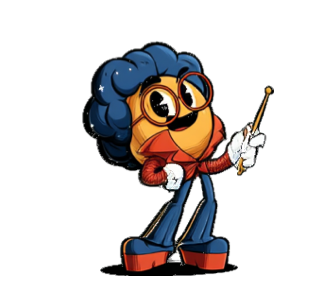
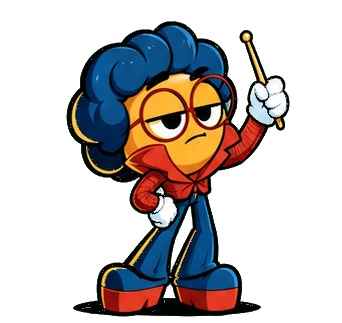
Tomi: hit animations by energy from Alan's new sheets; drum where the sticks land
- 32 hit frames (one / two hands, 4 styles each, 4 phases), energy = knob x
  velocity picks the style; impact on the note, follow-through, ready.
- Sleep poses kept; the floor tom moved to the measured stick impact point.

diff --git a/plugins/pew_pew/Source/TomiMascot.cpp b/plugins/pew_pew/Source/TomiMascot.cpp
@@ -41,20 +41,6 @@ double TomiMascot::echoSeconds() noexcept
     return PewPewDsp::divisionBeats (proc.getDivisionParameter().getIndex()) * 60.0 / bpm;
 }
 
-int TomiMascot::hitPose (float amount) const noexcept
-{
-    // The knob sets how wild the hit is
-    if (amount < 0.12f)
-        return strikeHit;                                 // 0 %: a plain, quiet strike
-    if (amount < 0.37f)
-        return twirl;                                     // 25 %: stick twirl, smile
-    if (amount < 0.62f)
-        return sparkleFirst + (hitIndex & 1);             // 50 %: bigger, head in it
-    if (amount < 0.87f)
-        return sticksUpFirst + (hitIndex & 1);            // 75 %: full swing, stars
-    return jump;                                          // 100 %: euphoric jump
-}
-
 int TomiMascot::chooseFrame (float amount, float bypass, bool musicOn)
 {
     juce::ignoreUnused (musicOn);
@@ -72,6 +58,7 @@ int TomiMascot::chooseFrame (float amount, float bypass, bool musicOn)
             hitTime = s.time - hitOverride;
             hitVelocity = 1.0f;
             hitPitch = 1.0f;
+            hitLevel = levelFor (amount, 1.0f);
             ++hitIndex;
         }
     }
@@ -83,11 +70,12 @@ int TomiMascot::chooseFrame (float amount, float bypass, bool musicOn)
         hitPitch = juce::jmax (tel.pitchPosition.load (std::memory_order_relaxed), amount);
         ++hitIndex;
         recentHits[(size_t) (recentCount % (int) recentHits.size())] = s.time;
-        recentPoses[(size_t) (recentCount % (int) recentPoses.size())] = hitPose (amount);
+        hitLevel = levelFor (amount, hitVelocity);
+        recentPoses[(size_t) (recentCount % (int) recentPoses.size())] = frameOf (hitLevel, impact);
         ++recentCount;
-        mutableState().squash = -0.06f * hitVelocity; // the force of the hit
-        // stars from 75 %, sparkles everywhere at 100 %
-        int burst = amount >= 0.62f ? (int) (4 + 8 * amount * hitVelocity) : 0;
+        mutableState().squash = -0.05f * hitVelocity; // the force of the hit
+        // stars from the skin at high energy, everywhere at the top
+        int burst = hitLevel >= 5 ? 3 + 2 * (hitLevel - 4) : 0;
         const auto fig = getFigureArea();
         const auto drum = drumArea (fig);
         for (auto& st : stars)
@@ -96,7 +84,7 @@ int TomiMascot::chooseFrame (float amount, float bypass, bool musicOn)
                 break;
             if (st.life > 0.0f)
                 continue;
-            const bool everywhere = amount >= 0.87f && random.nextFloat() < 0.5f;
+            const bool everywhere = hitLevel >= 7 && random.nextFloat() < 0.5f;
             st.pos = everywhere ? juce::Point<float> (getWidth() * random.nextFloat(), getHeight() * random.nextFloat() * 0.8f)
                                 : drum.getCentre().translated ((random.nextFloat() - 0.5f) * drum.getWidth(), -drum.getHeight() * 0.3f);
             const float ang = juce::MathConstants<float>::pi * (1.1f + 0.8f * random.nextFloat());
@@ -136,35 +124,32 @@ int TomiMascot::chooseFrame (float amount, float bypass, bool musicOn)
     }
     bypassSince = -1.0;
 
-    // The hit: raised -> strike (knob pose) -> lift, ~170 ms
-    if (since >= 0.0 && since < 0.17)
-        return since < 0.11 ? hitPose (amount) : (amount < 0.12f ? strikeLift : hitPose (amount));
+    // The hit: impact at once (the sound starts with the note), then the
+    // follow-through, then the stick back up, ready
+    if (since >= 0.0 && since < 0.11)
+        return frameOf (hitLevel, impact);
+    if (since >= 0.0 && since < 0.26)
+        return frameOf (hitLevel, follow);
 
-    // Between hits
-    if (s.playing && since > 1.0 && amount < 0.62f)
+    // Between hits: ready, in the style of the knob's energy (velocity of
+    // the last hit kept); tapping the tempo while the host plays without notes
+    const int level = since >= 0.0 && since < 2.0 ? hitLevel : levelFor (amount, 0.8f);
+    if (s.playing && since > 1.0)
     {
-        // tapping along with the tempo
         const int beat = (int) std::floor (s.time * getFeatures().bpm.load() / 60.0);
-        return (beat & 1) ? strikeUp : strikeRaised;
+        return frameOf (level, (beat & 1) ? downswing : raised);
     }
-    if (amount >= 0.62f)
-        return since < 1.2 ? enthusiasm : (amount >= 0.87f ? enthusiasm : smile);
-    if (amount >= 0.12f)
-        return smile;
-    // calm: little glances / blinks every 2 to 6 s
-    if (s.time > idleFlip)
-    {
-        idleFrame = calmFirst + random.nextInt (4);
-        idleFlip = s.time + 2.0 + 4.0 * random.nextDouble();
-    }
-    return idleFrame;
+    return frameOf (level, raised);
 }
 
 juce::Rectangle<float> TomiMascot::drumArea (juce::Rectangle<float> fig) const noexcept
 {
-    // A disco floor tom at Tomi's side (to the right, half behind him)
-    const float w = fig.getHeight() * 0.62f, h = w * 0.62f;
-    return juce::Rectangle<float> (w, h).withCentre ({ fig.getCentreX() + fig.getWidth() * 0.36f, fig.getBottom() - h * 0.62f });
+    // A low floor tom where the sticks land on the impact frames (measured
+    // on the sprites: 65-82 % of the width, 81-90 % of the height, feet at
+    // 97 %): its skin at ankle height, just behind his right foot
+    const float w = fig.getWidth() * 0.58f, h = fig.getHeight() * 0.17f;
+    const float skinY = fig.getY() + fig.getHeight() * 0.86f;
+    return { fig.getX() + fig.getWidth() * 0.78f - w * 0.5f, skinY - h * 0.18f, w, h };
 }
 
 void TomiMascot::paintBehind (juce::Graphics& g, const State& s, juce::Rectangle<float> fig)
@@ -240,7 +225,7 @@ void TomiMascot::paintBehind (juce::Graphics& g, const State& s, juce::Rectangle
 
     // ECHO: ghosts of Tomi replaying the hit at the echo times
     const float echo = proc.getEchoParameter().getValue() * awake;
-    if (echo > 0.02f && numFrames() > jump)
+    if (echo > 0.02f && numFrames() > sleepFirst)
     {
         const int ghosts = juce::jlimit (1, 3, 1 + (int) std::floor (echo * 2.99f));
         const double gap = echoSeconds();
@@ -260,13 +245,7 @@ void TomiMascot::paintBehind (juce::Graphics& g, const State& s, juce::Rectangle
 
 void TomiMascot::paintCharacter (juce::Graphics& g, juce::Rectangle<float> fig, const juce::AffineTransform& animation)
 {
-    const auto& s = getState();
-    // 100 %: he jumps on every hit
-    const double since = s.time - hitTime;
-    float hop = 0.0f;
-    if (s.amount >= 0.87f && since >= 0.0 && since < 0.3 && s.bypass < 0.5f)
-        hop = -fig.getHeight() * 0.09f * (float) std::sin (juce::MathConstants<double>::pi * since / 0.3) * hitVelocity;
-    drawFrame (g, s.frame, fig, animation.followedBy (juce::AffineTransform::translation (0.0f, hop)), 1.0f);
+    drawFrame (g, getState().frame, fig, animation, 1.0f);
 }
 
 void TomiMascot::paintOverlay (juce::Graphics& g, const State& s, juce::Rectangle<float> fig)

diff --git a/plugins/pew_pew/Source/TomiMascot.h b/plugins/pew_pew/Source/TomiMascot.h
@@ -4,12 +4,13 @@
 
 namespace pp
 {
-/** "Tomi", the disco drummer, in front of his drum.
+/** "Tomi", the disco drummer, and his floor tom.
 
     Every MIDI note is a stick hit (from the engine's trigger counter, at the
-    nearest frame), its force follows the velocity. The pose depends on the
-    knob (calm strike at 0 % → twirl → sparkles → sticks up → euphoric jump at
-    100 %) and on the moment of the hit, never on a plain timer. The drum is
+    nearest frame): impact, then follow-through, then the stick back up. The
+    hit style follows the energy, i.e. the knob and the velocity: one hand
+    and cheerful at the bottom, two hands, star eyes, gritted teeth, and
+    dizzy at the very top (8 styles); never a plain timer. The drum is
     drawn by code: its skin swells and lifts with the real pitch. ROOM shows as
     rings on the floor, ECHO as ghost Tomis replaying the hit at the echo
     times. Bypass: he falls asleep sitting by the drum ("Zzz"). */
@@ -20,9 +21,16 @@ public:
 
     static std::vector<juce::Image> loadFrames();
 
-    // Frame roles (scripts/make_tomi_frames.sh)
-    static constexpr int calmFirst = 0, smile = 4, twirl = 5, sparkleFirst = 6, sticksUpFirst = 8, jump = 10;
-    static constexpr int strikeRaised = 11, strikeLift = 12, strikeHit = 13, strikeUp = 14, enthusiasm = 15, sleepFirst = 16;
+    // Frame roles (scripts/make_tomi_frames.sh): 8 hit styles by energy, four
+    // phases each (stick raised, downswing, impact, follow-through), then sleep
+    static constexpr int numLevels = 8, raised = 0, downswing = 1, impact = 2, follow = 3, sleepFirst = 32;
+    static int frameOf (int level, int phase) noexcept { return juce::jlimit (0, numLevels - 1, level) * 4 + phase; }
+    /** Energy 0..1 → hit style: the knob, and how hard the note was played. */
+    static int levelFor (float amount, float velocity) noexcept
+    {
+        const float energy = amount * (0.55f + 0.45f * velocity);
+        return juce::jlimit (0, numLevels - 1, (int) std::floor (energy * numLevels));
+    }
 
     /** 1 on a hit, decaying (~120 ms): the knob's halo and skin lift. */
     float hitEnvelope() const noexcept { return hitEnv; }
@@ -39,13 +47,12 @@ protected:
     void paintOverlay (juce::Graphics&, const State&, juce::Rectangle<float> figure) override;
 
 private:
-    int hitPose (float amount) const noexcept;
     juce::Rectangle<float> drumArea (juce::Rectangle<float> figure) const noexcept;
     double echoSeconds() noexcept;
 
     PewPewProcessor& proc;
-    int lastTrigger = 0, hitIndex = 0, idleFrame = calmFirst;
-    double lastTime = 0.0, hitTime = -10.0, idleFlip = 0.0, bypassSince = -1.0;
+    int lastTrigger = 0, hitIndex = 0, hitLevel = 0;
+    double lastTime = 0.0, hitTime = -10.0, bypassSince = -1.0;
     float hitVelocity = 1.0f, hitPitch = 0.0f, hitEnv = 0.0f, lift = 0.0f, hitOverride = -1.0f;
     std::array<double, 8> recentHits {}; // times of the last hits (ghosts, floor rings)
     std::array<int, 8> recentPoses {};

diff --git a/DECISIONS.md b/DECISIONS.md
@@ -291,3 +291,10 @@ Une ligne par décision : **contexte** — choix — raison.
 - **5 presets de plus** : Syndrum 76 (sinus 294 Hz, +2 → −1 oct, τ 28 ms, 140 ms), Bubble Pop (sinus, glissement régulier 0,7 oct en 60 ms, UP par défaut), Arcade Zap (carré 440 Hz filtré à 6 kHz, +2 → −1 oct, drive), Disco Cowbell (deux carrés 540 Hz et +680 cents à parts égales, glissement infime, 90 ms ; `detuneCents` élargi à ±1200), Siren Sweep (triangle 392 Hz, −1 oct en 900 ms, tenue 400 ms, désaccord 25 cents).
 - **Distances** : Syndrum 76 était à 0,200 de Disco Tom et 0,202 de Deep Drop → plus aigu, plus court, chute plus vive ; plus petite distance des 10 : 0,205 (Disco Tom ↔ Space Toms, inchangée).
 - **Niveaux** : les 10 presets entre −21,6 et −19,6 dB RMS sur le pattern à 50 %, crêtes ≤ −1,5 dBFS (les sons courts — Bubble Pop, Disco Cowbell, Syndrum 76 — limités par leur crête).
+
+## Pew Pew — nouvelles frappes de Tomi selon l'énergie (2026-10-19)
+- **Planches d'Alan** : deux planches 4 × 4 de frappes (une main, deux mains) ; chaque ligne = une frappe en 4 temps (baguette levée, descente, impact avec étincelles, accompagnement). Remplacent toutes les poses éveillées ; on garde les 3 poses de sommeil.
+- **Énergie** = knob × (0,55 + 0,45 × vélocité) → 8 styles, du plus calme au plus fou : une main (joyeux, malin, yeux étoiles, crispé → étourdi), puis deux mains dans le même ordre (lignes 1, 3, 2, 4 de chaque planche).
+- **Déroulé** : l'impact s'affiche dès la note (le son commence avec elle) pendant 110 ms, puis l'accompagnement jusqu'à 260 ms, puis la baguette levée (prête) ; en lecture sans notes il bat le tempo (levée / descente). Les fantômes d'ECHO rejouent la frame d'impact.
+- **Tambour déplacé** là où les baguettes frappent : mesuré sur les frames d'impact (étincelles : 65–82 % de la largeur, 81–90 % de la hauteur, pieds à 97 %) → tom basse posé au sol juste derrière son pied droit, peau à 86 % de la hauteur, baguettes et étincelles par-dessus. Le grand saut et les anciennes poses ne sont plus utilisés.
+- Remarque : dans la ligne « yeux étoiles » à une main, la 3e frame garde la baguette levée (dessin de la planche) ; laissé tel quel.
